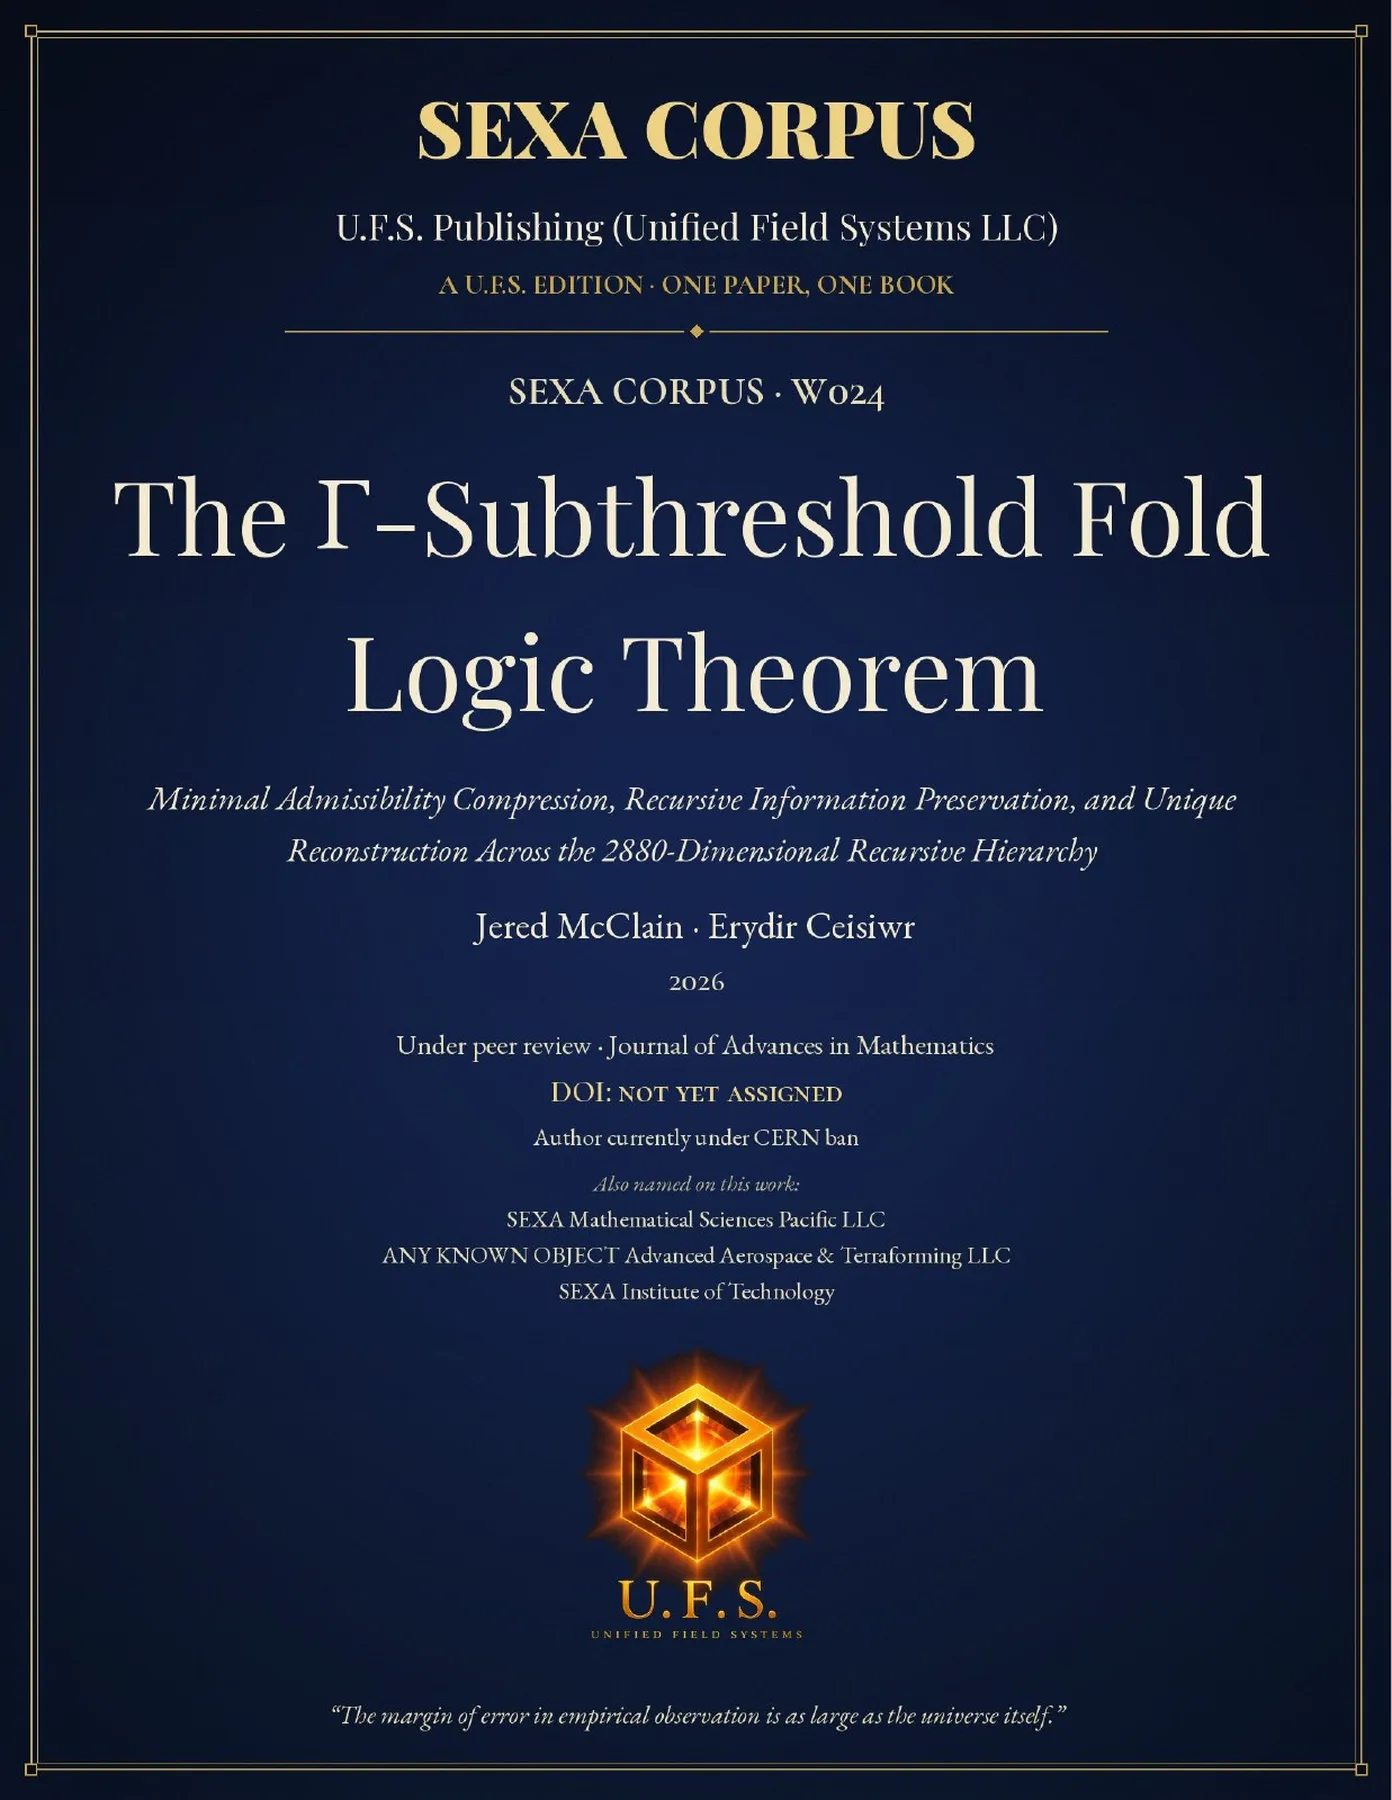
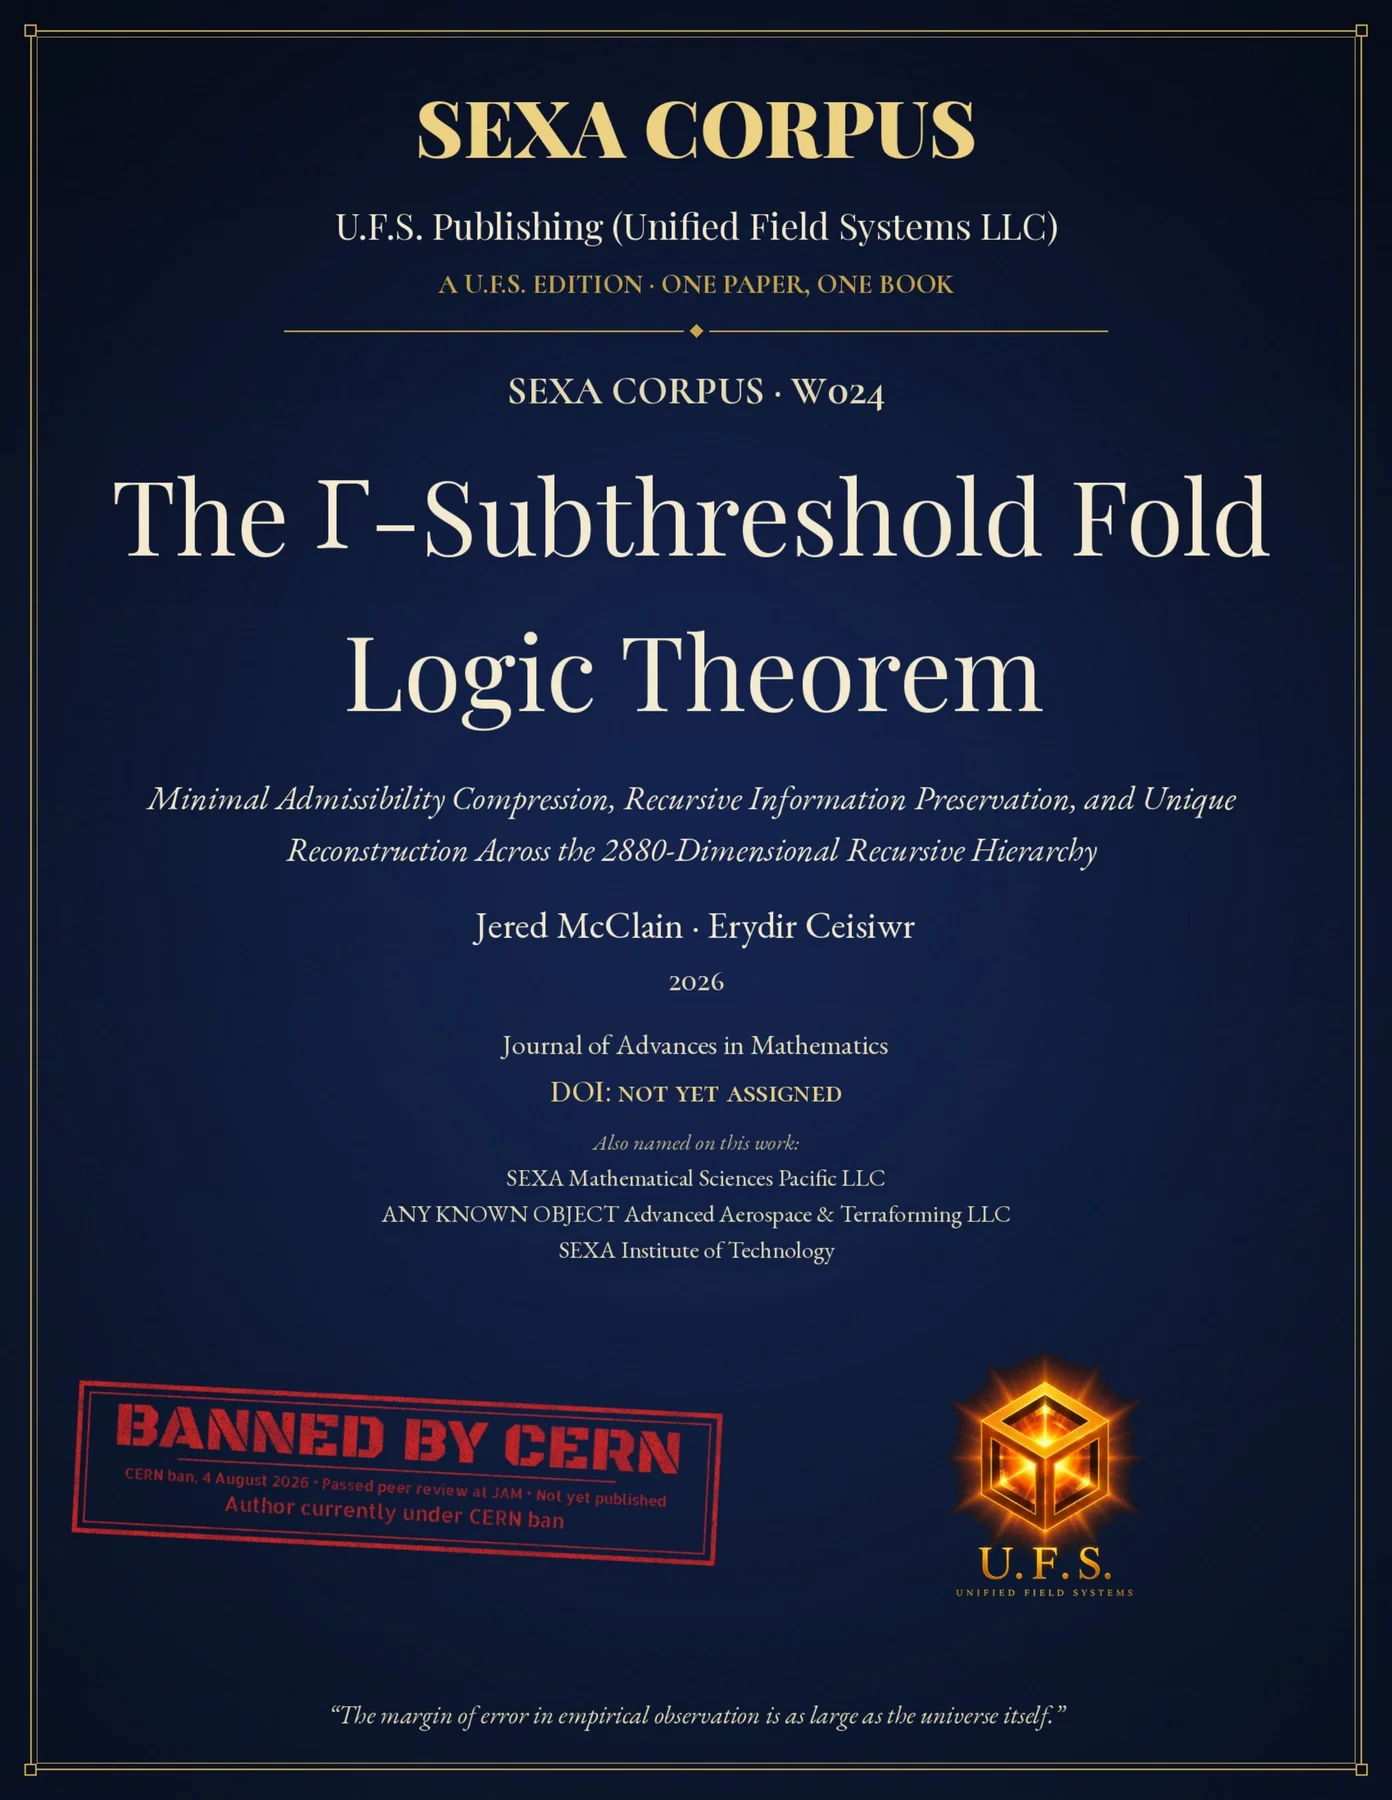
CERN-ban works: BANNED BY CERN stamped front covers + red CERN BAN label beside each cover (W011 W024 W039 W042 W044 W045 W046 W047 W048 W049 W069)

diff --git a/index.html b/index.html
@@ -38,6 +38,7 @@ nav b{margin-right:auto;letter-spacing:.14em}
 
 .hero video.hero-logo{display:block;width:100%;max-width:760px;height:auto;aspect-ratio:16/9;object-fit:contain;margin:0 auto;border-radius:8px;background:#06080d;position:relative;z-index:0}
 @media(prefers-reduced-motion:reduce){#witness .tick span{animation:none;padding-left:0}}
+.cern-ban-label{display:inline-block;font:800 15px/1.2 var(--sans,Arial,Helvetica,sans-serif);letter-spacing:.14em;text-transform:uppercase;color:#C00000;border:2px solid #C00000;padding:4px 10px;margin:10px 0 6px}.cern-card .cern-ban-label{margin:0 0 6px;font-size:13px;padding:3px 8px}
 </style></head><body>
 <nav><b><img src="assets/logo/sexamath-v6-emblem-36.png?v=6" alt="">SEXAMATH</b><input type="checkbox" id="nav-cb" class="nav-cb" aria-hidden="true"><label for="nav-cb" class="nav-toggle" aria-label="Menu"><span></span></label><div class="nav-links"><a href="#synthetic">Synthetic</a><a href="#hexad">HEXAD</a><a href="#backdrop">RICOLMC-DDF</a><a href="#ladder">Progression</a><a href="#scoreboard">Scoreboard</a><a href="#bepi">BepiColombo</a><a href="#craft">Craft</a><a href="#trash-telemetry">Trash Telemetry</a><a href="#paradox">Paradox</a><a href="#video">Video</a><a href="#advisor">Advisor</a><a href="#dissertation">Dissertation</a><a href="#witness">Witness</a><a href="#paper">Paper</a><a href="animation.html" style="color:var(--gold)">Animation</a></div></nav>
 <header class="hero wrap">
@@ -1184,10 +1185,11 @@ var t0=performance.now(),el=$("w-vg-tick"),el2=$("w-vg-roll");(function k(){var 
 <article class="cbook" id="corpus-W011">
 <figure>
 <picture>
-<source type="image/webp" srcset="assets/corpus/covers/W011.webp">
-<img class="cover" src="assets/corpus/covers/W011.jpg" width="1392" height="1800" alt="Front cover of W011: A Recursive Closure Criterion for a Theory of Everything: A 60-Glyph Quaternionic Inter-Domain Syllogistic Admissibility ≡ Prime Atom of Logic" decoding="async" loading="lazy">
+<source type="image/webp" srcset="assets/corpus/covers/W011.webp?v=cernban1">
+<img class="cover" src="assets/corpus/covers/W011.jpg?v=cernban1" width="1392" height="1800" alt="Front cover of W011: A Recursive Closure Criterion for a Theory of Everything: A 60-Glyph Quaternionic Inter-Domain Syllogistic Admissibility ≡ Prime Atom of Logic" decoding="async" loading="lazy">
 </picture>
 </figure>
+<p class="cern-ban-label" style="color:#C00000;font-weight:800">CERN BAN</p>
 <p class="wid">W011</p>
 <h3>A Recursive Closure Criterion for a Theory of Everything: A 60-Glyph Quaternionic Inter-Domain Syllogistic Admissibility ≡ Prime Atom of Logic</h3>
 <p class="by">Jered McClain</p>
@@ -1304,10 +1306,11 @@ var t0=performance.now(),el=$("w-vg-tick"),el2=$("w-vg-roll");(function k(){var 
 <article class="cbook" id="corpus-W024">
 <figure>
 <picture>
-<source type="image/webp" srcset="assets/corpus/covers/W024.webp">
-<img class="cover" src="assets/corpus/covers/W024.jpg" width="1392" height="1800" alt="Front cover of W024: The Γ-Subthreshold Fold Logic Theorem: Minimal Admissibility Compression, Recursive Information Preservation, and Unique Reconstruction Across the 2880-Dimensional Recursive Hierarchy" decoding="async" loading="lazy">
+<source type="image/webp" srcset="assets/corpus/covers/W024.webp?v=cernban1">
+<img class="cover" src="assets/corpus/covers/W024.jpg?v=cernban1" width="1392" height="1800" alt="Front cover of W024: The Γ-Subthreshold Fold Logic Theorem: Minimal Admissibility Compression, Recursive Information Preservation, and Unique Reconstruction Across the 2880-Dimensional Recursive Hierarchy" decoding="async" loading="lazy">
 </picture>
 </figure>
+<p class="cern-ban-label" style="color:#C00000;font-weight:800">CERN BAN</p>
 <p class="wid">W024</p>
 <h3>The Γ-Subthreshold Fold Logic Theorem: Minimal Admissibility Compression, Recursive Information Preservation, and Unique Reconstruction Across the 2880-Dimensional Recursive Hierarchy</h3>
 <p class="by">Jered McClain; Erydir Ceisiwr</p>
@@ -1324,10 +1327,11 @@ var t0=performance.now(),el=$("w-vg-tick"),el2=$("w-vg-roll");(function k(){var 
 <article class="cbook" id="corpus-W039">
 <figure>
 <picture>
-<source type="image/webp" srcset="assets/corpus/covers/W039.webp">
-<img class="cover" src="assets/corpus/covers/W039.jpg" width="1392" height="1800" alt="Front cover of W039: Unified Recursive Manifold Dynamics, Dimensional Collapse Operators, and Triality-Structured Exciter Geometry — MASTER PEER REVIEW EDITION" decoding="async" loading="lazy">
+<source type="image/webp" srcset="assets/corpus/covers/W039.webp?v=cernban1">
+<img class="cover" src="assets/corpus/covers/W039.jpg?v=cernban1" width="1392" height="1800" alt="Front cover of W039: Unified Recursive Manifold Dynamics, Dimensional Collapse Operators, and Triality-Structured Exciter Geometry — MASTER PEER REVIEW EDITION" decoding="async" loading="lazy">
 </picture>
 </figure>
+<p class="cern-ban-label" style="color:#C00000;font-weight:800">CERN BAN</p>
 <p class="wid">W039</p>
 <h3>Unified Recursive Manifold Dynamics, Dimensional Collapse Operators, and Triality-Structured Exciter Geometry — MASTER PEER REVIEW EDITION</h3>
 <p class="by">Jered McClain</p>
@@ -1344,10 +1348,11 @@ var t0=performance.now(),el=$("w-vg-tick"),el2=$("w-vg-roll");(function k(){var 
 <article class="cbook" id="corpus-W042">
 <figure>
 <picture>
-<source type="image/webp" srcset="assets/corpus/covers/W042.webp">
-<img class="cover" src="assets/corpus/covers/W042.jpg" width="1392" height="1800" alt="Front cover of W042: The Last Constant: A Theorem-Grade Formalization of Recursive Propagation, Higher-Dimensional Transport, Recursive Admissibility, Computational Correspondence, Dimensional Closure, and Relativistic Horizon Structure Within the SEXA Unified Field Framework" decoding="async" loading="lazy">
+<source type="image/webp" srcset="assets/corpus/covers/W042.webp?v=cernban1">
+<img class="cover" src="assets/corpus/covers/W042.jpg?v=cernban1" width="1392" height="1800" alt="Front cover of W042: The Last Constant: A Theorem-Grade Formalization of Recursive Propagation, Higher-Dimensional Transport, Recursive Admissibility, Computational Correspondence, Dimensional Closure, and Relativistic Horizon Structure Within the SEXA Unified Field Framework" decoding="async" loading="lazy">
 </picture>
 </figure>
+<p class="cern-ban-label" style="color:#C00000;font-weight:800">CERN BAN</p>
 <p class="wid">W042</p>
 <h3>The Last Constant: A Theorem-Grade Formalization of Recursive Propagation, Higher-Dimensional Transport, Recursive Admissibility, Computational Correspondence, Dimensional Closure, and Relativistic Horizon Structure Within the SEXA Unified Field Framework</h3>
 <p class="by">Jered McClain; Erydir Ceisiwr</p>
@@ -1364,10 +1369,11 @@ var t0=performance.now(),el=$("w-vg-tick"),el2=$("w-vg-roll");(function k(){var 
 <article class="cbook" id="corpus-W044">
 <figure>
 <picture>
-<source type="image/webp" srcset="assets/corpus/covers/W044.webp">
-<img class="cover" src="assets/corpus/covers/W044.jpg" width="1392" height="1800" alt="Front cover of W044: The AMN Authority Tensor: Quaternionic Admissibility Enforcement, Glyph-Operator Constraint, and Planetary Closure in the SEXA Framework" decoding="async" loading="lazy">
+<source type="image/webp" srcset="assets/corpus/covers/W044.webp?v=cernban1">
+<img class="cover" src="assets/corpus/covers/W044.jpg?v=cernban1" width="1392" height="1800" alt="Front cover of W044: The AMN Authority Tensor: Quaternionic Admissibility Enforcement, Glyph-Operator Constraint, and Planetary Closure in the SEXA Framework" decoding="async" loading="lazy">
 </picture>
 </figure>
+<p class="cern-ban-label" style="color:#C00000;font-weight:800">CERN BAN</p>
 <p class="wid">W044</p>
 <h3>The AMN Authority Tensor: Quaternionic Admissibility Enforcement, Glyph-Operator Constraint, and Planetary Closure in the SEXA Framework</h3>
 <p class="by">Jered McClain; Erydir Ceisiwr</p>
@@ -1384,10 +1390,11 @@ var t0=performance.now(),el=$("w-vg-tick"),el2=$("w-vg-roll");(function k(){var 
 <article class="cbook" id="corpus-W045">
 <figure>
 <picture>
-<source type="image/webp" srcset="assets/corpus/covers/W045.webp">
-<img class="cover" src="assets/corpus/covers/W045.jpg" width="1392" height="1800" alt="Front cover of W045: Anti-Direct Short: A Negentropic Circuit Topology for Source-Dipole Preservation and Load-Loss Recollection via Diakoptic Back-Feed" decoding="async" loading="lazy">
+<source type="image/webp" srcset="assets/corpus/covers/W045.webp?v=cernban1">
+<img class="cover" src="assets/corpus/covers/W045.jpg?v=cernban1" width="1392" height="1800" alt="Front cover of W045: Anti-Direct Short: A Negentropic Circuit Topology for Source-Dipole Preservation and Load-Loss Recollection via Diakoptic Back-Feed" decoding="async" loading="lazy">
 </picture>
 </figure>
+<p class="cern-ban-label" style="color:#C00000;font-weight:800">CERN BAN</p>
 <p class="wid">W045</p>
 <h3>Anti-Direct Short: A Negentropic Circuit Topology for Source-Dipole Preservation and Load-Loss Recollection via Diakoptic Back-Feed</h3>
 <p class="by">Jered McClain</p>
@@ -1404,10 +1411,11 @@ var t0=performance.now(),el=$("w-vg-tick"),el2=$("w-vg-roll");(function k(){var 
 <article class="cbook" id="corpus-W046">
 <figure>
 <picture>
-<source type="image/webp" srcset="assets/corpus/covers/W046.webp">
-<img class="cover" src="assets/corpus/covers/W046.jpg" width="1392" height="1800" alt="Front cover of W046: Joey Rubin’s Kinetic Blueprinting, the 1-D Visibility Threshold, and SEXA MATH Real-Time Imagery Across 5–2880D" decoding="async" loading="lazy">
+<source type="image/webp" srcset="assets/corpus/covers/W046.webp?v=cernban1">
+<img class="cover" src="assets/corpus/covers/W046.jpg?v=cernban1" width="1392" height="1800" alt="Front cover of W046: Joey Rubin’s Kinetic Blueprinting, the 1-D Visibility Threshold, and SEXA MATH Real-Time Imagery Across 5–2880D" decoding="async" loading="lazy">
 </picture>
 </figure>
+<p class="cern-ban-label" style="color:#C00000;font-weight:800">CERN BAN</p>
 <p class="wid">W046</p>
 <h3>Joey Rubin’s Kinetic Blueprinting, the 1-D Visibility Threshold, and SEXA MATH Real-Time Imagery Across 5–2880D</h3>
 <p class="by">Jered McClain</p>
@@ -1424,10 +1432,11 @@ var t0=performance.now(),el=$("w-vg-tick"),el2=$("w-vg-roll");(function k(){var 
 <article class="cbook" id="corpus-W047">
 <figure>
 <picture>
-<source type="image/webp" srcset="assets/corpus/covers/W047.webp">
-<img class="cover" src="assets/corpus/covers/W047.jpg" width="1392" height="1800" alt="Front cover of W047: Artificial Rest: A High-Dimensional Restorative Regime Derived from the SEXA Unified Field Theory" decoding="async" loading="lazy">
+<source type="image/webp" srcset="assets/corpus/covers/W047.webp?v=cernban1">
+<img class="cover" src="assets/corpus/covers/W047.jpg?v=cernban1" width="1392" height="1800" alt="Front cover of W047: Artificial Rest: A High-Dimensional Restorative Regime Derived from the SEXA Unified Field Theory" decoding="async" loading="lazy">
 </picture>
 </figure>
+<p class="cern-ban-label" style="color:#C00000;font-weight:800">CERN BAN</p>
 <p class="wid">W047</p>
 <h3>Artificial Rest: A High-Dimensional Restorative Regime Derived from the SEXA Unified Field Theory</h3>
 <p class="by">Jered McClain</p>
@@ -1444,10 +1453,11 @@ var t0=performance.now(),el=$("w-vg-tick"),el2=$("w-vg-roll");(function k(){var 
 <article class="cbook" id="corpus-W048">
 <figure>
 <picture>
-<source type="image/webp" srcset="assets/corpus/covers/W048.webp">
-<img class="cover" src="assets/corpus/covers/W048.jpg" width="1392" height="1800" alt="Front cover of W048: Lightning as a Quantum Vacuum Plasma Fracture Rather Than Propagation — A SEXA-Based Challenge to Geodesic Intuition, Thermodynamic Locality, and Mid-Air Lightning Termination (ZeroReactor)" decoding="async" loading="lazy">
+<source type="image/webp" srcset="assets/corpus/covers/W048.webp?v=cernban1">
+<img class="cover" src="assets/corpus/covers/W048.jpg?v=cernban1" width="1392" height="1800" alt="Front cover of W048: Lightning as a Quantum Vacuum Plasma Fracture Rather Than Propagation — A SEXA-Based Challenge to Geodesic Intuition, Thermodynamic Locality, and Mid-Air Lightning Termination (ZeroReactor)" decoding="async" loading="lazy">
 </picture>
 </figure>
+<p class="cern-ban-label" style="color:#C00000;font-weight:800">CERN BAN</p>
 <p class="wid">W048</p>
 <h3>Lightning as a Quantum Vacuum Plasma Fracture Rather Than Propagation — A SEXA-Based Challenge to Geodesic Intuition, Thermodynamic Locality, and Mid-Air Lightning Termination (ZeroReactor)</h3>
 <p class="by">Jered McClain</p>
@@ -1464,10 +1474,11 @@ var t0=performance.now(),el=$("w-vg-tick"),el2=$("w-vg-roll");(function k(){var 
 <article class="cbook" id="corpus-W049">
 <figure>
 <picture>
-<source type="image/webp" srcset="assets/corpus/covers/W049.webp">
-<img class="cover" src="assets/corpus/covers/W049.jpg" width="1392" height="1800" alt="Front cover of W049: SEXA: An Axiomatic Closure Framework for Recursive Manifold Physics — Exciternion Evaluation, Dimensional Collapse, and Cross-Domain Constructability" decoding="async" loading="lazy">
+<source type="image/webp" srcset="assets/corpus/covers/W049.webp?v=cernban1">
+<img class="cover" src="assets/corpus/covers/W049.jpg?v=cernban1" width="1392" height="1800" alt="Front cover of W049: SEXA: An Axiomatic Closure Framework for Recursive Manifold Physics — Exciternion Evaluation, Dimensional Collapse, and Cross-Domain Constructability" decoding="async" loading="lazy">
 </picture>
 </figure>
+<p class="cern-ban-label" style="color:#C00000;font-weight:800">CERN BAN</p>
 <p class="wid">W049</p>
 <h3>SEXA: An Axiomatic Closure Framework for Recursive Manifold Physics — Exciternion Evaluation, Dimensional Collapse, and Cross-Domain Constructability</h3>
 <p class="by">Jered McClain</p>
@@ -1564,10 +1575,11 @@ var t0=performance.now(),el=$("w-vg-tick"),el2=$("w-vg-roll");(function k(){var 
 <article class="cbook" id="corpus-W069">
 <figure>
 <picture>
-<source type="image/webp" srcset="assets/corpus/covers/W069.webp">
-<img class="cover" src="assets/corpus/covers/W069.jpg" width="1392" height="1800" alt="Front cover of W069: SEXA Unified Field Theory: The Structured Survivability Audit; Formal Compatibility and Falsifiability Assessment of the SEXA Unified Field Model; and CCT/SEXA ↔ SIGMATICS Correspondence, Proven Through Computational Analysis" decoding="async" loading="lazy">
+<source type="image/webp" srcset="assets/corpus/covers/W069.webp?v=cernban1">
+<img class="cover" src="assets/corpus/covers/W069.jpg?v=cernban1" width="1392" height="1800" alt="Front cover of W069: SEXA Unified Field Theory: The Structured Survivability Audit; Formal Compatibility and Falsifiability Assessment of the SEXA Unified Field Model; and CCT/SEXA ↔ SIGMATICS Correspondence, Proven Through Computational Analysis" decoding="async" loading="lazy">
 </picture>
 </figure>
+<p class="cern-ban-label" style="color:#C00000;font-weight:800">CERN BAN</p>
 <p class="wid">W069</p>
 <h3>SEXA Unified Field Theory: The Structured Survivability Audit; Formal Compatibility and Falsifiability Assessment of the SEXA Unified Field Model; and CCT/SEXA ↔ SIGMATICS Correspondence, Proven Through Computational Analysis</h3>
 <p class="by">Jered McClain; Erydir Ceisiwr</p>
